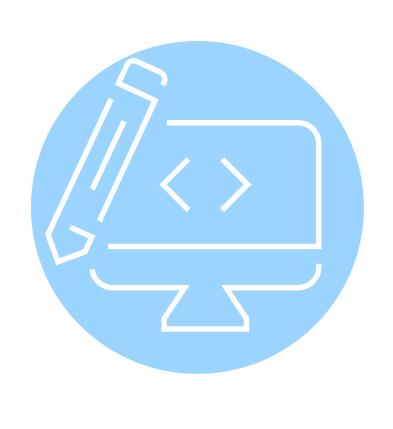
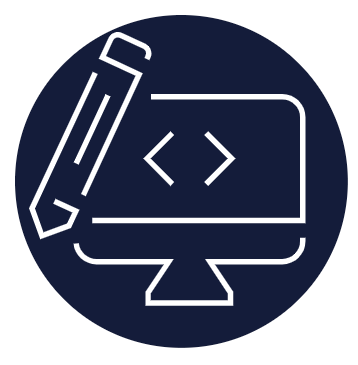
rendered projects

diff --git a/css/style.css b/css/style.css
@@ -5,26 +5,26 @@
     padding: 0px;
 }
 
-@media only screen and (max-width:650px) {
     h1 {
         font-family: "gruppo", sans-serif;
         font-size: 60px;
         font-weight: 900;
         line-height: .8;
         margin-left: 120px;
-        margin-top: 80px;
+        margin-top: 40px;
         padding-bottom: 30px;
     }
     .fa-google {
         font-size: 45px;
-        color: #9ad4ff;
+        color: #141c3a;
         margin-top: 35px;
         margin-left: 15px;
     }
     .fa-bars {
         color: black;
         font-size: 30px;
-        margin-left: 400px;    
+        margin-left: 400px;  
+        margin-bottom: 30px;  
     }
     p {
         font-size: 17px;
@@ -54,17 +54,17 @@
         margin-left: 25px;
     }
     .web-dev {
-        width: 200px;
-        margin-left: 140px;
-        margin-top: 25px;
-        margin-bottom: 40px;
+        width: 170px;
+        margin-left: 160px;
+        margin-top: 45px;
+        margin-bottom: 60px;
     }
     .container {
         margin: 0px;
         padding: 0px;
     }
     .container2 {
-        background-color: #9ad4ff;
+        background-color: #141c3a;
         width: 100%;
         padding: 20px;
     }
@@ -83,7 +83,7 @@
     }
     .filler {
         height: 140px;
-        background-color: #9ad4ff;
+        background-color: #141c3a;
     }
     .skills {
         height: 1750px;
@@ -117,7 +117,7 @@
         margin-top: 12px;
     }
     .js {
-        margin-left: 168px;
+        margin-left: 170px;
         margin-bottom: 40px;
         margin-top: 12px;
     }
@@ -145,7 +145,7 @@
     }
     .js-tout {
         line-height: .4;
-        margin-left: 90px;
+        margin-left: 93px;
     }
     .p1line2 {
         margin-left: 85px;
@@ -156,7 +156,7 @@
         font-size: 19px;
     }
     .highlight {
-        color: #9ad4ff;
+        color: #141c3a;
     }
     .tout-p3 {
         margin-top: 55px;
@@ -217,15 +217,95 @@
     }
     .project-header {
         font-family: "gruppo", sans-serif;
-        font-size: 35px;
-        margin-left: 148px;
+        font-size: 40px;
+        margin-left: 140px;
+        margin-top: 20px;
+        color: #141c3a;
         
     }
     .projects {
-        height: 1500px;
-        background-color: lavender;
+        height: 1700px;
+        background-color:white;
     }
     .recent-work {
-        font-size: 20px;
+        font-size: 21px;
+        color:#141c3a;
+        margin-bottom: 90px;
     }
-}
+    .cards {
+        height: 300px;
+        width: 440px;
+        background-color: red;
+        border-radius: 1rem;
+        margin-left: 30px;
+        margin-bottom: 30px
+    }
+    .cards img {
+        height: 30px;
+    }
+    form {
+        height: 500px;
+        width: 300px;
+        border: 1px ;
+        background-color: #750ff7;
+        border-radius: .8rem;
+        position: relative;
+        bottom: 145px;
+        left: 95px;
+        margin-left: 10px;
+    }
+    label {
+        margin: 10px;
+        color: white;
+    }
+
+    #first-name {
+        margin-left: 10px;
+        border: 1px solid lightgray;
+        border-radius: .4rem;
+    }
+    #last-name {
+        margin-left: 10px;
+        border: 1px solid lightgray;
+        border-radius: .4rem;
+    }
+    #email {
+        margin-left: 10px;
+        border: 1px solid lightgray;
+        border-radius: .4rem;
+    }
+    textarea {
+        margin-left: 10px;
+        border: 1px solid lightgray;
+        border-radius: .4rem;
+        max-height: 140px;
+        min-height: 140px;
+    
+    }
+    button {
+         width: 30%;
+         margin-top: 12px;
+         margin-left: 10px;
+         border: 2px solid #750ff7 ;
+         border-radius: .4rem;
+         background-color: #141c3a;
+         color: white
+    }
+    form h4 {
+        color:white;
+        font-family: "gruppo", sans-serif;
+        font-size: 35px;
+        font-weight: 900;
+        margin-left: 54px;
+        padding-top: 20px;
+    }
+    footer {
+        background-color: #141c3a;
+    }
+    .fa-linkedin {
+        font-size: 90px;
+        color: #0a66c2;
+        margin-bottom: 45px;
+        margin-left: 210px;
+        margin-top: -100px;
+    }

diff --git a/index.html b/index.html
@@ -30,14 +30,16 @@
             href="https://use.fontawesome.com/releases/v5.2.0/css/all.css"
         />
 
+        <script src="https://code.jquery.com/jquery-3.6.0.js"  integrity="sha256-H+K7U5CnXl1h5ywQfKtSj8PCmoN9aaq30gDh27Xc0jk=" crossorigin="anonymous"></script>
     <script
+    
       type="module"
       src="https://cdn.jsdelivr.net/npm/@shoelace-style/shoelace@2.0.0-beta.36/dist/shoelace.js"
     ></script>
 
     <!-- YOUR CUSTOM CODE -->
     <link rel="stylesheet" href="css/style.css" />
-    <script src="js/webcomponents.js" defer></>
+    <!-- <script src="js/webcomponents.js" defer></> -->
     <script src="js/app.js" defer></script>
   </head>
   <body>
@@ -110,26 +112,22 @@
             <h2 class="project-header">Recent Work</h2>
             <p class="recent-work">Here are a few design projects I've worked on recently.</p>
           </section>
-
-          
           <footer>
-            <div>
-              <form>
-  <div class="form-group">
-    <label for="exampleInputEmail1">Email address</label>
-    <input type="email" class="form-control" id="exampleInputEmail1" aria-describedby="emailHelp" placeholder="Enter email">
-    <small id="emailHelp" class="form-text text-muted">We'll never share your email with anyone else.</small>
-  </div>
-  <div class="form-group">
-    <label for="exampleInputPassword1">Password</label>
-    <input type="password" class="form-control" id="exampleInputPassword1" placeholder="Password">
-  </div>
-  <div class="form-check">
-    <input type="checkbox" class="form-check-input" id="exampleCheck1">
-    <label class="form-check-label" for="exampleCheck1">Check me out</label>
-  </div>
-  <button type="submit" class="btn btn-primary">Submit</button>
-</form>
+              <form class="formstyle">
+                <h4>Contact Me</h4>
+                <label for="first-name">First Name:</label><br>
+                <input type="text" id="first-name" name="first-name"><br>
+                <label for="last-name">Last Name:</label><br>
+                <input type="text" id="last-name" name="name">
+                <br>
+                <label for="email">Email:</label><br>
+                <input type="email" id="email" name="email"><br>
+                <br>
+                <textarea name="comment" form="usrform" placeholder="Subject.."></textarea> <br>
+                <a href="#"><button type="button">Submit</button></a>
+              </form>
+              <div>
+                <a href="https://www.linkedin.com/in/gabriel-r-4576b51b8/" target="_blank"><i class="fab fa-linkedin"></i></a>
               </div>
             </footer>
     </main>

diff --git a/js/app.js b/js/app.js
@@ -12,10 +12,28 @@ $.ajax("https://spreadsheets.google.com/feeds/list/1hoUmuy23O3N7PikDWrUvcJ3dfOLz
         }
     })
     console.log("projects", projects);
+    projects.forEach((arrItem) => {
+        // appended div to section with class of 'projects'
+        // $(`<div>`).addClass("cards").appendTo("section.projects")
+        // $(`<p>${arrItem.project}</p>`).addClass("project-name").appendTo("cards")
+        // $(`<p> ${arrItem.description}</p>`).addClass("description").appendTo("cards")
+        // $(`<a>${arrItem.giturl}</a>`).addClass("giturl").appendTo("cards")
+        // $(`<a>${arrItem.liveurl}</a>`).addClass("liveurl").appendTo("cards")
+        console.log(arrItem);
+        
+        const $projectCard = $(`
+            <div class="cards">
+            <p>${arrItem.project}</p>
+            <p>${arrItem.description}</p>
+            <a href="${arrItem.liveurl}">LiveUrl</a>
+            <a href="${arrItem.giturl}">gitUrl</a>
+            <img src="${arrItem.image}">
+            </div>
+        `)
+        $projectCard.appendTo(`section.projects`)
+    })
 })
 //.catch in case of an error
 .catch((error) => {
     console.error(error)
 })
-
-console.log("hello world")
